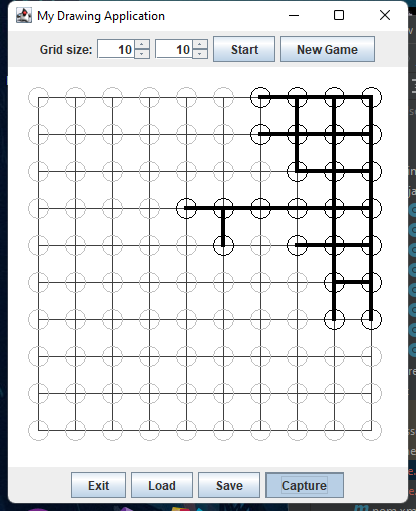
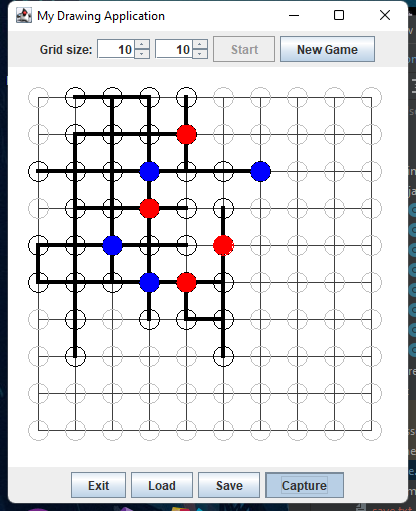
Lab6Comp+Homework(Update: save+load)

diff --git a/Lab6/src/main/java/Game.java b/Lab6/src/main/java/Game.java
@@ -2,11 +2,9 @@ import javax.swing.*;
 import java.awt.*;
 import java.awt.event.MouseAdapter;
 import java.awt.event.MouseEvent;
-import java.io.FileWriter;
-import java.io.IOException;
-import java.io.Writer;
-import java.security.PublicKey;
+import java.io.*;
 import java.util.List;
+import java.util.Scanner;
 
 public class Game {
     final MainFrame mainFrame;
@@ -23,16 +21,8 @@ public class Game {
         this.mainFrame = mainFrame;
         this.stones = mainFrame.canvas.getStones();
         this.canvas = mainFrame.canvas;
-        rows=this.mainFrame.configPanel.getRows();
-        cols= this.mainFrame.configPanel.getCols();
-    }
-
-    public int getTurn() {
-        return turn;
-    }
-
-    public List<Node> getStones(){
-        return stones;
+        rows = this.mainFrame.configPanel.getRows();
+        cols = this.mainFrame.configPanel.getCols();
     }
 
     public void play() {
@@ -98,13 +88,74 @@ public class Game {
     private boolean endOfGame(int player1StoneCount, int player2StoneCount) {
         return player1StoneCount + player2StoneCount == stones.size();
     }
+
     public void save() {
         try {
             Writer writer = new FileWriter("save.txt");
-            writer.write(rows);
-        } catch (Exception e){
+            writer.write(rows + " ");
+            writer.write(cols + "\n");
+            writer.write(turn + "\n");
+            writer.write(player1Stones + " ");
+            writer.write(player2Stones + "\n");
+            writer.write(stones.size() + "\n");
+            for (Node node : stones) {
+                writer.write(node.getX() + " ");
+                writer.write(node.getY() + " ");
+                writer.write(node.getColor() + "\n");
+            }
+            for (Stick stick : this.canvas.getSticks()) {
+                writer.write(stick.getFirst().getX() + " ");
+                writer.write(stick.getFirst().getY() + " ");
+                writer.write(stick.getSecond().getX() + " ");
+                writer.write(stick.getSecond().getY() + "\n");
+            }
+            writer.close();
+        } catch (Exception e) {
             e.printStackTrace();
         }
     }
+
+    public void load() {
+        try {
+            Scanner scanner = new Scanner(new File("save.txt"));
+            String[] data;
+            String line;
+            line = scanner.nextLine();
+            data = line.split(" ");
+            this.canvas.setRows(Integer.parseInt(data[0]));
+            this.canvas.setCols(Integer.parseInt(data[1]));
+            line = scanner.nextLine();
+            turn = Integer.parseInt(line);
+            line = scanner.nextLine();
+            data = line.split(" ");
+            player1Stones = Integer.parseInt(data[0]);
+            player2Stones = Integer.parseInt(data[1]);
+            line = scanner.nextLine();
+            int size = Integer.parseInt(line);
+
+            //stones
+            stones.clear();
+            for (int i = 0; i < size; i++) {
+                line = scanner.nextLine();
+                data = line.split(" ");
+                stones.add(new Node(Integer.parseInt(data[0]), Integer.parseInt(data[1])));
+                stones.get(i).setColor(Integer.parseInt(data[2]));
+            }
+
+            //sticks
+            canvas.getSticks().clear();
+            while (scanner.hasNextLine()) {
+                line = scanner.nextLine();
+                data = line.split(" ");
+                canvas.getSticks().add(new Stick(new Node(Integer.parseInt(data[0]), Integer.parseInt(data[1])),
+                        new Node(Integer.parseInt(data[2]), Integer.parseInt(data[3]))));
+            }
+            scanner.close();
+            mainFrame.repaint();
+        } catch (Exception e) {
+            e.printStackTrace();
+        }
+    }
+
 
 }

diff --git a/Lab6/src/main/java/DrawingPanel.java b/Lab6/src/main/java/DrawingPanel.java
@@ -23,7 +23,6 @@ public class DrawingPanel extends JPanel {
     public DrawingPanel(MainFrame frame) {
         this.frame = frame;
         init(frame.configPanel.getRows(), frame.configPanel.getCols());
-
     }
 
     final void init(int rows, int cols) {
@@ -44,11 +43,13 @@ public class DrawingPanel extends JPanel {
         g.setColor(Color.WHITE);
         g.fillRect(0, 0, canvasWidth, canvasHeight);
         paintGrid(g);
-
-        generateSticks();
+        if (sticks.isEmpty()) {
+            generateSticks();
+        }
         paintSticks(g);
-
-        generateStones();
+        if (stones.isEmpty()) {
+            generateStones();
+        }
         paintStones(g);
     }
 
@@ -89,7 +90,7 @@ public class DrawingPanel extends JPanel {
         Random random = new Random();
         //maxim number of intersection
         maxim = random.nextInt(rows * cols + 1) + 3;
-        System.out.println("Maxim:" + maxim);
+        //System.out.println("Maxim:" + maxim);
 
         //first node
         int iRandom = random.nextInt(rows);
@@ -177,15 +178,15 @@ public class DrawingPanel extends JPanel {
                 if (iOfCurrentNode < rows - 1) {
                     if (!(new Stick(nodes.get(iOfCurrentNode).get(jOfCurrentNode), nodes.get(iOfCurrentNode + 1).get(jOfCurrentNode)).compareStick(sticks))) {
                         sticks.add(new Stick(nodes.get(iOfCurrentNode).get(jOfCurrentNode), nodes.get(iOfCurrentNode + 1).get(jOfCurrentNode)));
-                        nodeList.add(nodes.get(iOfCurrentNode+1).get(jOfCurrentNode));
+                        nodeList.add(nodes.get(iOfCurrentNode + 1).get(jOfCurrentNode));
                         temp++;
                     }
 
                 }
             }
         }
-        System.out.println("Numarul de bete:" + sticks.size());
-        System.out.println(sticks);
+        //System.out.println("Numarul de bete:" + sticks.size());
+        //System.out.println(sticks);
 
     }
 
@@ -217,13 +218,34 @@ public class DrawingPanel extends JPanel {
         g.setColor(Color.BLACK);
         g.setStroke(new BasicStroke(1, BasicStroke.CAP_ROUND, BasicStroke.JOIN_ROUND));
         for (Node stone : stones) {
+            g.setColor(Color.BLACK);
             g.drawOval(stone.getX() - stoneSize / 2, stone.getY() - stoneSize / 2, stoneSize, stoneSize);
+            if (stone.getColor() == 0) {
+                g.setColor(Color.BLUE);
+                g.fillOval(stone.getX() - stoneSize / 2, stone.getY() - stoneSize / 2, stoneSize, stoneSize);
+            } else if (stone.getColor() == 1) {
+                g.setColor(Color.red);
+                g.fillOval(stone.getX() - stoneSize / 2, stone.getY() - stoneSize / 2, stoneSize, stoneSize);
+            }
         }
     }
 
     public List<Node> getStones() {
         return stones;
     }
+
+    public List<Stick> getSticks() {
+        return sticks;
+    }
+
+    public void setRows(int rows) {
+        this.rows = rows;
+    }
+
+    public void setCols(int cols) {
+        this.cols = cols;
+    }
+
 }
 
 

diff --git a/Lab6/src/main/java/Stick.java b/Lab6/src/main/java/Stick.java
@@ -26,10 +26,12 @@ public class Stick {
         }
         return false;
     }
-
     @Override
     public String toString() {
-        return "First:" + this.first + " " + "Second:" + this.second;
+        return "Stick{" +
+                "first=" + first +
+                ", second=" + second +
+                '}';
     }
 
 }

diff --git a/Lab6/src/main/java/ControlPanel.java b/Lab6/src/main/java/ControlPanel.java
@@ -35,11 +35,11 @@ public class ControlPanel extends JPanel {
     }
 
     private void save(ActionEvent e){
-
+        this.frame.game.save();
     }
 
     private void load(ActionEvent e){
-        
+        this.frame.game.load();
     }
 
     private void exitGame(ActionEvent e) {

diff --git a/Lab6/src/main/java/ConfigPanel.java b/Lab6/src/main/java/ConfigPanel.java
@@ -55,5 +55,6 @@ public class ConfigPanel extends JPanel {
     public int getCols() {
         return (int) cols.getValue();
     }
+
 }
 
